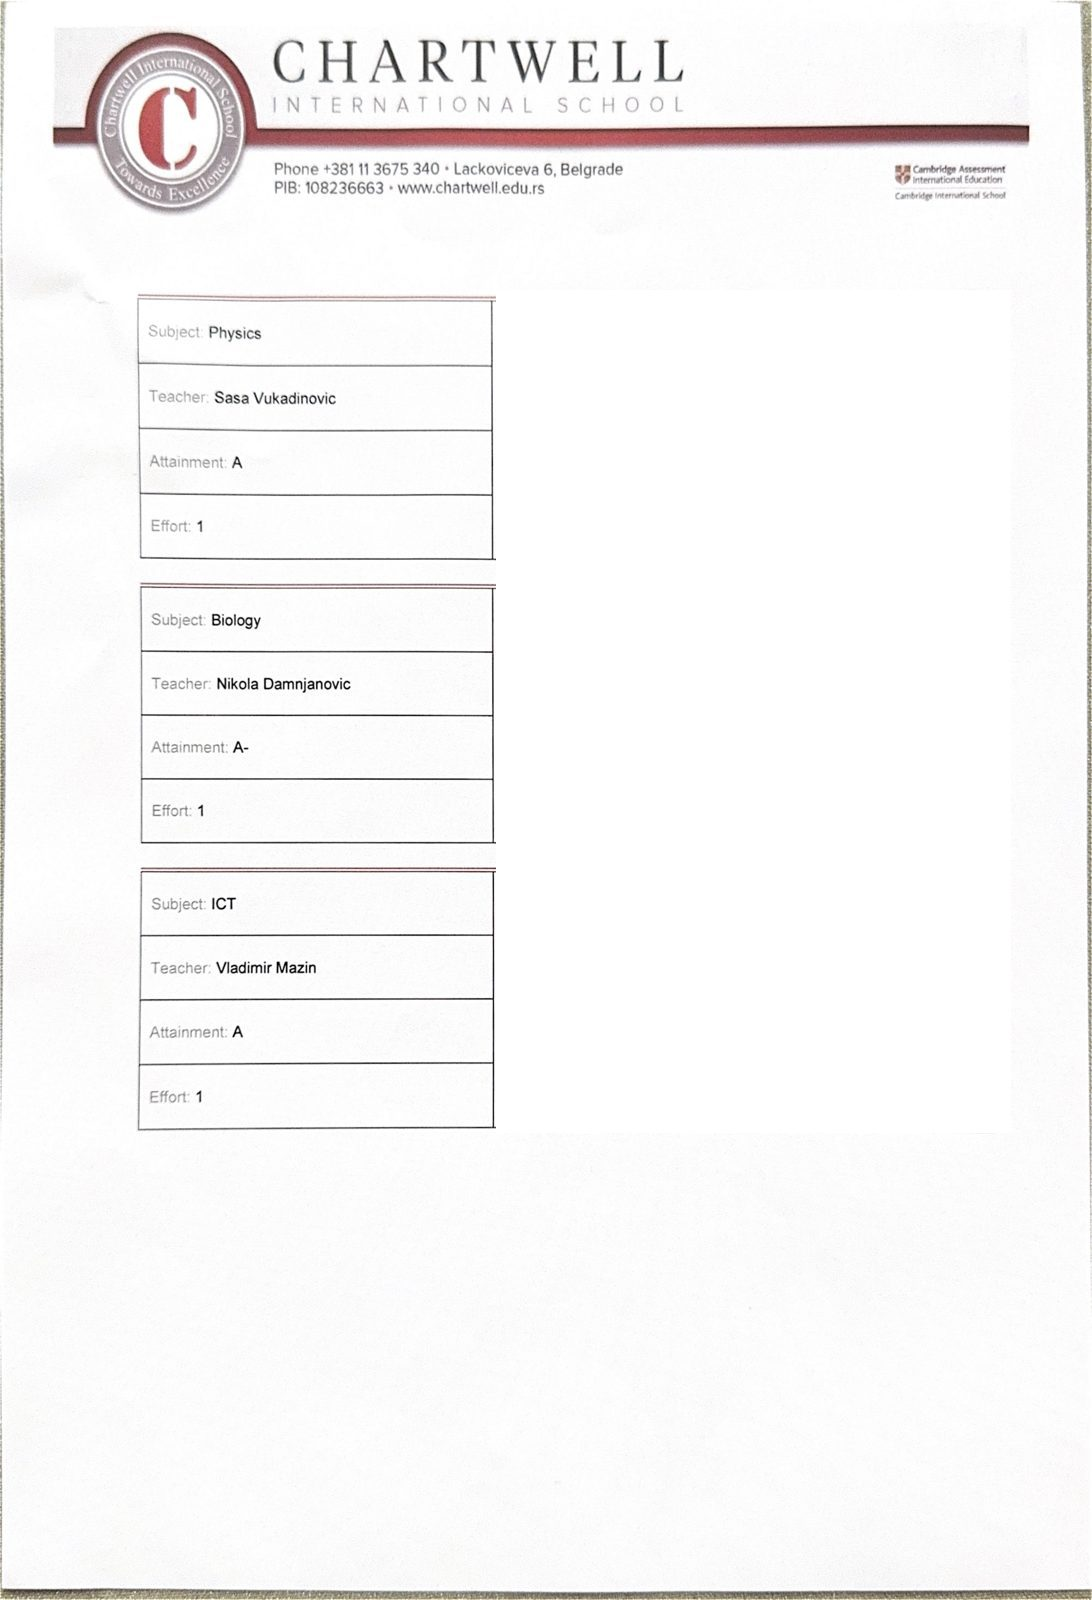
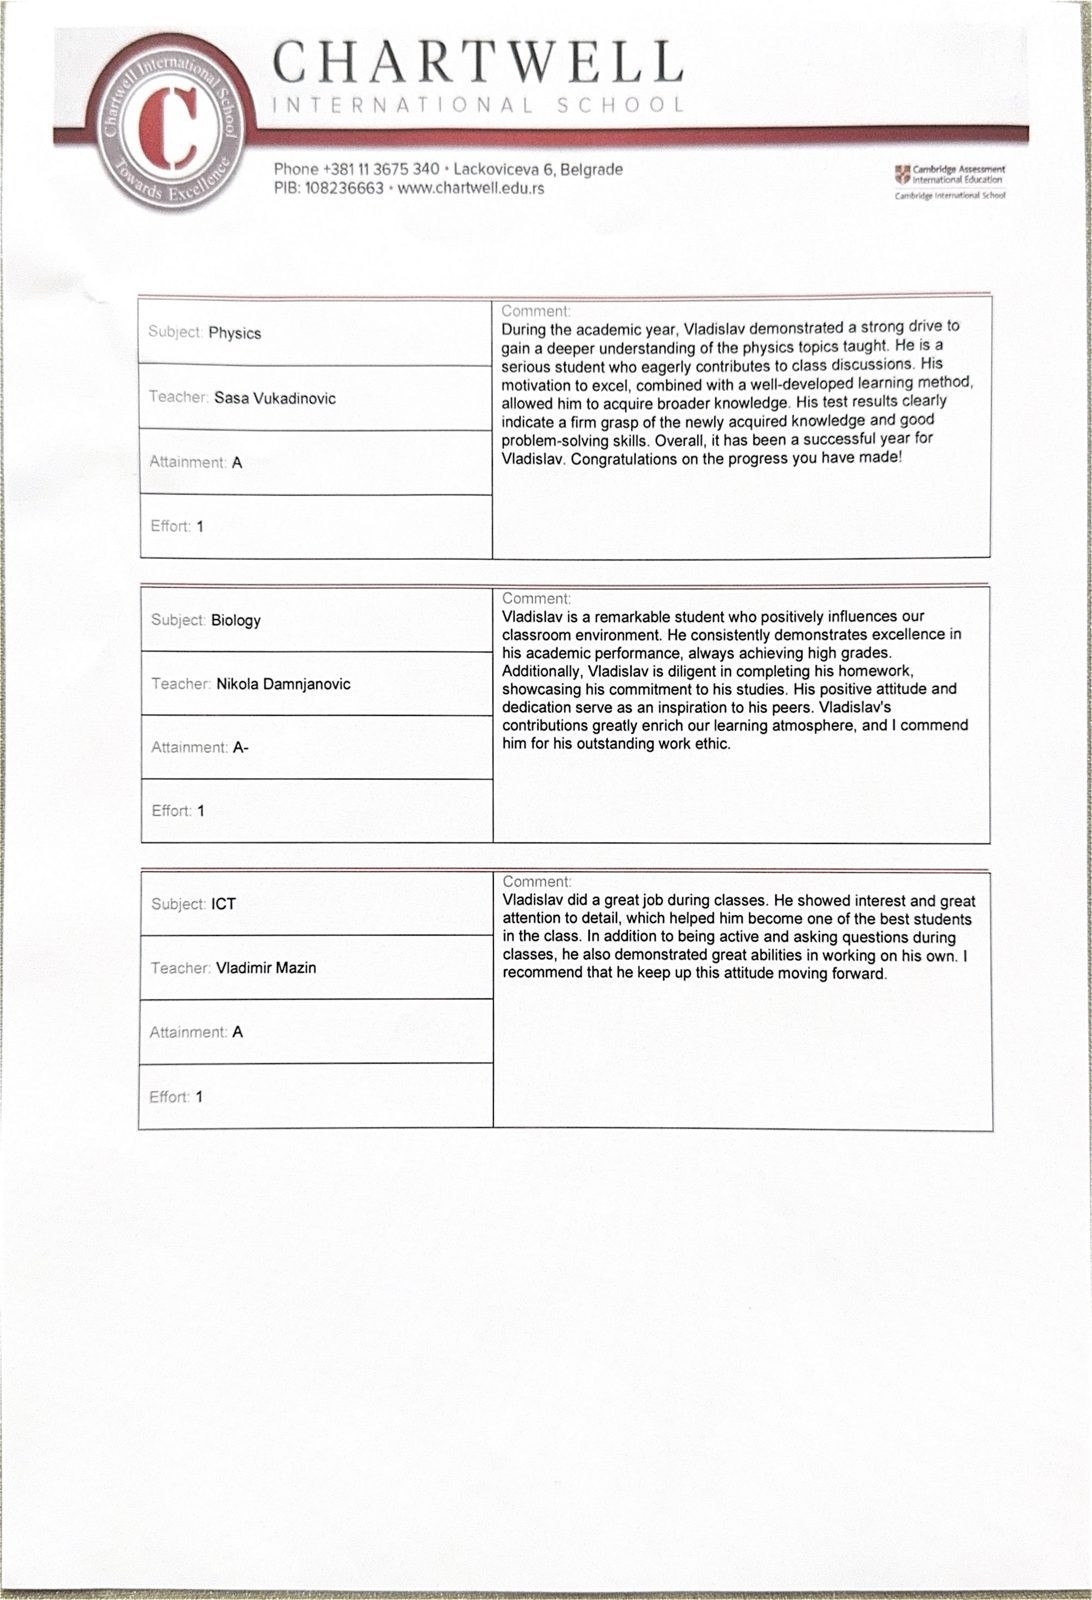
Proof files: full original reports, official IGCSE certificate, silver-only olympiad
- School reports: restore the full pages with teacher comments; only
  registration numbers are hidden (still 15 pages, Years 9-12)
- IGCSE: replace the online results printout with the official Cambridge
  certificate (candidate, certificate and serial numbers hidden)
- AS Level: hide the full hologram serial
- Olympiad: remove the 2023-2025 bronze files; only the 2026 silver is shown

Changed region(s): [[0.4359, 0.1562, 0.9029, 0.3125], [0.4359, 0.3438, 0.9029, 0.4688], [0.467, 0.5312, 0.9029, 0.625]]

diff --git a/proof/README.md b/proof/README.md
@@ -4,14 +4,13 @@ Scans or photos of certificates and reports. A "View" button on the site only ap
 
 | File(s) | Button |
 | --- | --- |
-| `reports/report-1.jpg` … `reports/report-15.jpg` | Chartwell end-of-year reports, grade tables only (teacher comments removed), oldest first: Year 9 2022/23 (1–5), Year 10 2023/24 (6–9), Year 11 2024/25 (10–13), Year 12 2025/26 (14–15) |
+| `reports/report-1.jpg` … `reports/report-15.jpg` | Chartwell end-of-year reports, full original pages, oldest first: Year 9 2022/23 (1–5), Year 10 2023/24 (6–9), Year 11 2024/25 (10–13), Year 12 2025/26 (14–15) |
 | `starters.jpg`, `movers.jpg` | Cambridge English Starters (May 2018) and Movers (May 2019) |
-| `igcse.jpg` | Cambridge IGCSE results |
+| `igcse.jpg` | Cambridge IGCSE certificate, June 2025 |
 | `as-level.jpg` | Cambridge AS Level results |
 | `ielts.jpg` | IELTS Academic |
 | `predicted.jpg` | A Level predicted grades letter |
-| `olympiad.jpg` | International STEM Olympiad, 2026 silver (Achievements card and last page in My journey) |
-| `olympiad-2023.jpg`, `olympiad-2024.jpg`, `olympiad-2025.jpg` | International STEM Olympiad bronze years, shown before `olympiad.jpg` in My journey |
+| `olympiad.jpg` | International STEM Olympiad, 2026 silver medal |
 | `dance-1.jpg` … `dance-6.jpg` | Dance certificates, oldest first (2022 to 2024) |
 | `commendation.jpg` | Formal Commendation for Technical Innovation letter (Projects section and My journey) |
 | `bazaar-1.jpg` … `bazaar-3.jpg` | Charity bazaar volunteering |
